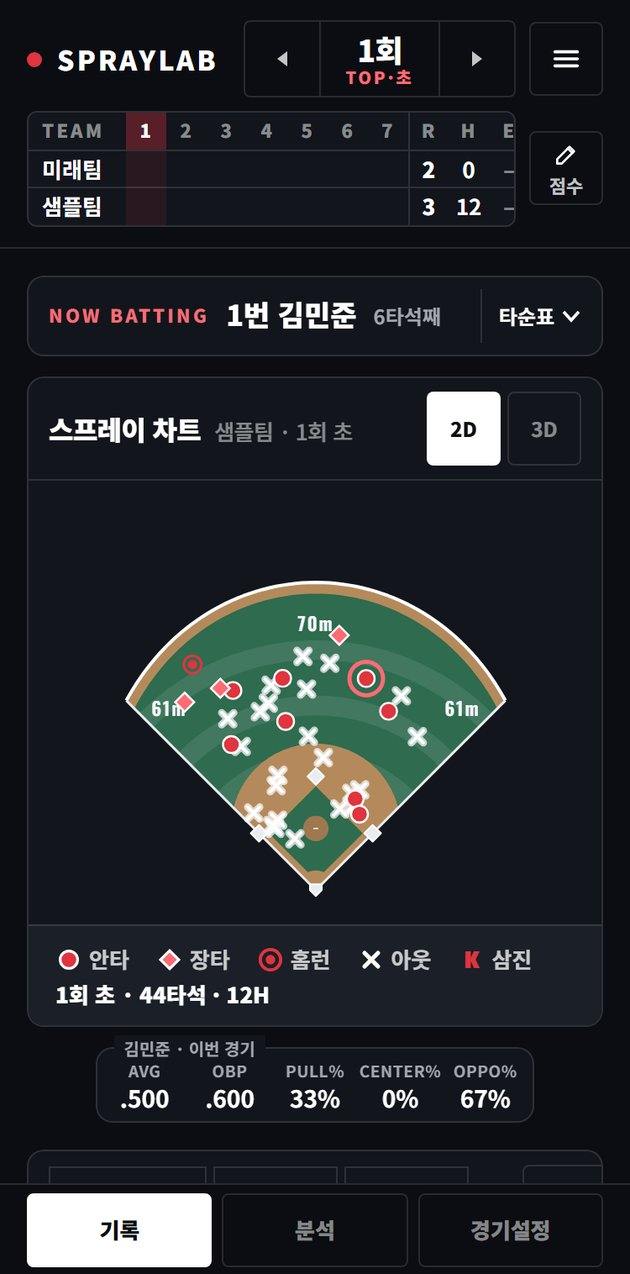
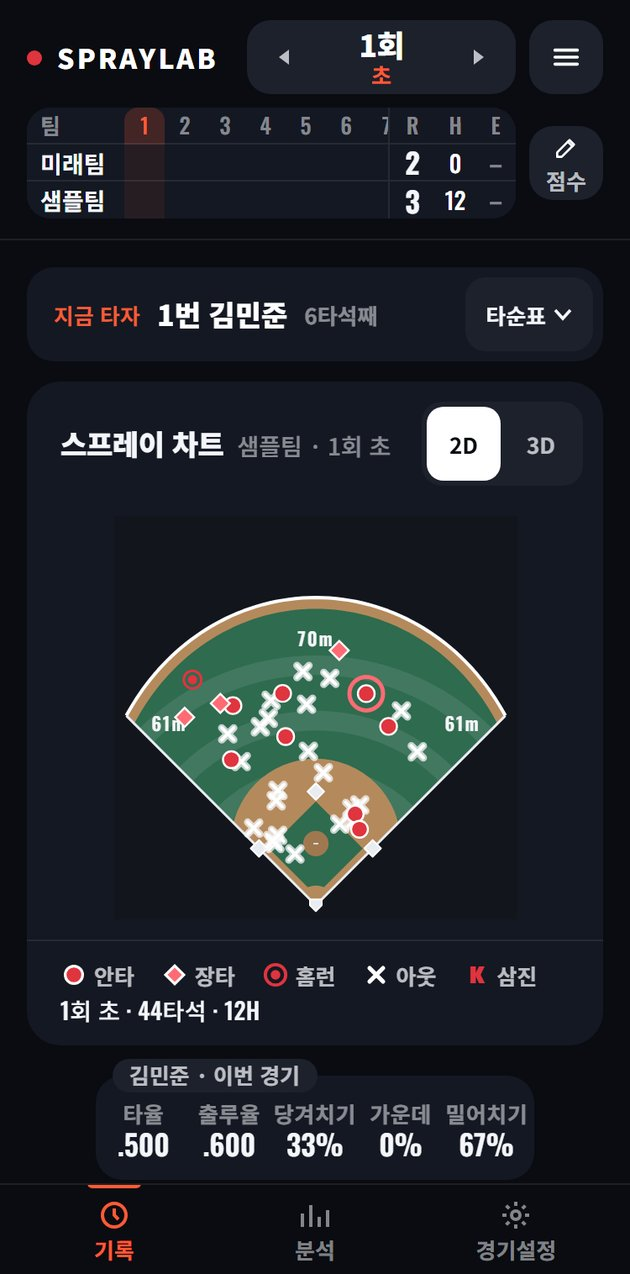
landing: 사용법 phones re-shot in the new dark app design
01 기록 / 02 분석 / 03 공유 come from tools/shoot_app.py on main 342e99e
(design v2 + the team-card fix #326). Only the three image ?v= hashes
change in landing.html (39be1577 / 2ee5ab77 / f4981c04).

diff --git a/landing.html b/landing.html
@@ -262,9 +262,9 @@
     <p class="sub right">가상 선수 9명 · 3경기 샘플로 찍은 실제 앱 화면입니다.</p>
   </div>
   <div class="trio">
-    <div class="card"><div class="n">01 · 기록</div><h3>자리를 탭한다</h3><p>타순표에서 타자를 고르고, 공이 떨어진 자리를 탭합니다. 결과와 코스까지 한 번에.</p><div class="phone"><div class="scr"><img src="assets/landing/img/app_record.jpg?v=47c7ad9e" alt="기록 화면"></div></div></div>
-    <div class="card"><div class="n">02 · 분석</div><h3>지표가 계산된다</h3><p>팀 성적, 선수 순위, 경기 흐름이 바로 계산됩니다. 타자별 브리핑과 상대 공략 포인트까지.</p><div class="phone"><div class="scr"><img src="assets/landing/img/app_team.jpg?v=250af616" alt="팀 대시보드"></div></div></div>
-    <div class="card"><div class="n">03 · 공유</div><h3>팀 전체가 본다</h3><p>선수 리포트 PNG, 차트 이미지, 엑셀, QR 링크. 공유 링크에서는 선수 실명이 자동으로 가려집니다.</p><div class="phone"><div class="scr"><img src="assets/landing/img/app_share.jpg?v=ce25f988" alt="선수 리포트 저장 · 공유 화면"></div></div></div>
+    <div class="card"><div class="n">01 · 기록</div><h3>자리를 탭한다</h3><p>타순표에서 타자를 고르고, 공이 떨어진 자리를 탭합니다. 결과와 코스까지 한 번에.</p><div class="phone"><div class="scr"><img src="assets/landing/img/app_record.jpg?v=39be1577" alt="기록 화면"></div></div></div>
+    <div class="card"><div class="n">02 · 분석</div><h3>지표가 계산된다</h3><p>팀 성적, 선수 순위, 경기 흐름이 바로 계산됩니다. 타자별 브리핑과 상대 공략 포인트까지.</p><div class="phone"><div class="scr"><img src="assets/landing/img/app_team.jpg?v=2ee5ab77" alt="팀 대시보드"></div></div></div>
+    <div class="card"><div class="n">03 · 공유</div><h3>팀 전체가 본다</h3><p>선수 리포트 PNG, 차트 이미지, 엑셀, QR 링크. 공유 링크에서는 선수 실명이 자동으로 가려집니다.</p><div class="phone"><div class="scr"><img src="assets/landing/img/app_share.jpg?v=f4981c04" alt="선수 리포트 저장 · 공유 화면"></div></div></div>
   </div>
 </div></section>
 
